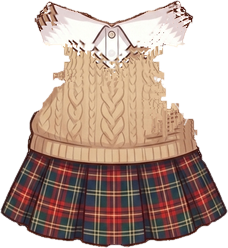
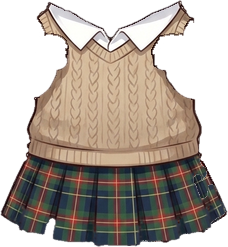
프레피 니트 조끼 다시 그려서(검은 고양이 위) 깨끗하게 오리기

diff --git a/index.html b/index.html
@@ -1310,7 +1310,7 @@ document.body.insertAdjacentHTML('afterbegin', puppetDefs());
 const blinkDelay = m => `animation-delay:${-((m.hue || 0) % 46) / 10}s`;
 // ===== 2D 고양이 아이돌 (그림 AI 그림 + 휘는 메시 애니메이션, cat2d.js) =====
 const CATS = [['cheese', '치즈'], ['tuxedo', '턱시도'], ['calico', '삼색'], ['black', '까망'], ['white', '하양'], ['tabby', '고등어'], ['siamese', '샴'], ['gray', '러블']];
-const CATV = '?v=17';
+const CATV = '?v=18';
 // 옷·소품 (art/cat/item-*.png, 좌표는 items.json). 무대에서는 콘셉트 의상, 평소엔 멤버별로 고른 옷
 const WEAR_CLOTH = [[null, '없음'], ['hoodie', '후드 조끼'], ['sport', '운동복'], ['dress', '프릴 원피스'], ['sailor', '세일러'], ['leather', '가죽 조끼'], ['cape', '별빛 망토'], ['polka', '물방울 원피스'], ['jersey', '힙합 저지'], ['ballad', '흰 드레스'], ['reddress', '빨간 드레스']];
 const WEAR_ACC = [[null, '없음'], ['ribbon', '리본'], ['crown', '왕관'], ['headset', '헤드셋 마이크'], ['beret', '베레모'], ['cap', '야구 모자'], ['sunglasses', '선글라스'], ['flower', '꽃 화관'], ['bowtie', '나비넥타이']];

diff --git a/cat-live.html b/cat-live.html
@@ -25,7 +25,7 @@ p{color:#8a6f7a;font-size:13px;line-height:1.5}
 <p>그림 AI로 그린 고양이를 몸통·팔·꼬리·표정으로 나누고, 그림을 <b>휘고 늘리는</b> 방식(Live2D·Spine과 같은 원리)으로 움직여요. 팔과 꼬리는 붙은 곳은 고정되고 끝으로 갈수록 휘어서 이음새가 없어요. 머리는 목 부분이 부드럽게 늘어나며 기울고, 숨 쉴 때 몸이 살짝 부풀어요.</p>
 </main>
 <script type="module">
-import { loadCat, makeCat, loadItems } from './cat2d.js?v=17';
+import { loadCat, makeCat, loadItems } from './cat2d.js?v=18';
 const MODES = { idle: '대기', dance: '춤', cheer: '만세(1위)', wave: '손 흔들기', sleep: '졸기', sad: '시무룩' };
 const cv = document.getElementById('st');
 const app = new PIXI.Application({ view: cv, backgroundAlpha: 0, antialias: true, width: cv.clientWidth, height: cv.clientHeight, resolution: Math.min(2, devicePixelRatio || 1), autoDensity: true });

diff --git a/cat2d.js b/cat2d.js
@@ -1,6 +1,6 @@
 // ===== 2D 고양이 아이돌 (그림을 휘고 늘리는 메시 애니메이션, PixiJS) =====
 // 부위 그림(몸통·팔·꼬리·표정)을 격자 모양 메시로 붙이고, 꼭짓점을 움직여서 이음새 없이 휘게 만듦.
-const ART = new URL('art/cat/', import.meta.url).href, VER = '?v=17';   // 고치면 숫자 올리기 (브라우저 저장본 대신 새 파일)
+const ART = new URL('art/cat/', import.meta.url).href, VER = '?v=18';   // 고치면 숫자 올리기 (브라우저 저장본 대신 새 파일)
 const sstep = (a, b, x) => { const t = Math.max(0, Math.min(1, (x - a) / (b - a))); return t * t * (3 - 2 * t); };
 const rot = (x, y, cx, cy, a) => { const c = Math.cos(a), s = Math.sin(a); return [cx + (x - cx) * c - (y - cy) * s, cy + (x - cx) * s + (y - cy) * c]; };
 

diff --git a/sw.js b/sw.js
@@ -1,5 +1,5 @@
 // 인터넷이 없어도 열리도록 앱 파일을 저장해 둠. 앱을 고치면 VERSION 숫자를 올릴 것.
-const VERSION = "v29";
+const VERSION = "v30";
 const FILES = ["./", "index.html", "manifest.webmanifest", "icon-180.png", "icon-192.png", "icon-512.png"];
 self.addEventListener("install", e => { e.waitUntil(caches.open(VERSION).then(c => c.addAll(FILES))); self.skipWaiting(); });
 self.addEventListener("activate", e => { e.waitUntil(caches.keys().then(ks => Promise.all(ks.filter(k => k !== VERSION).map(k => caches.delete(k))))); self.clients.claim(); });
